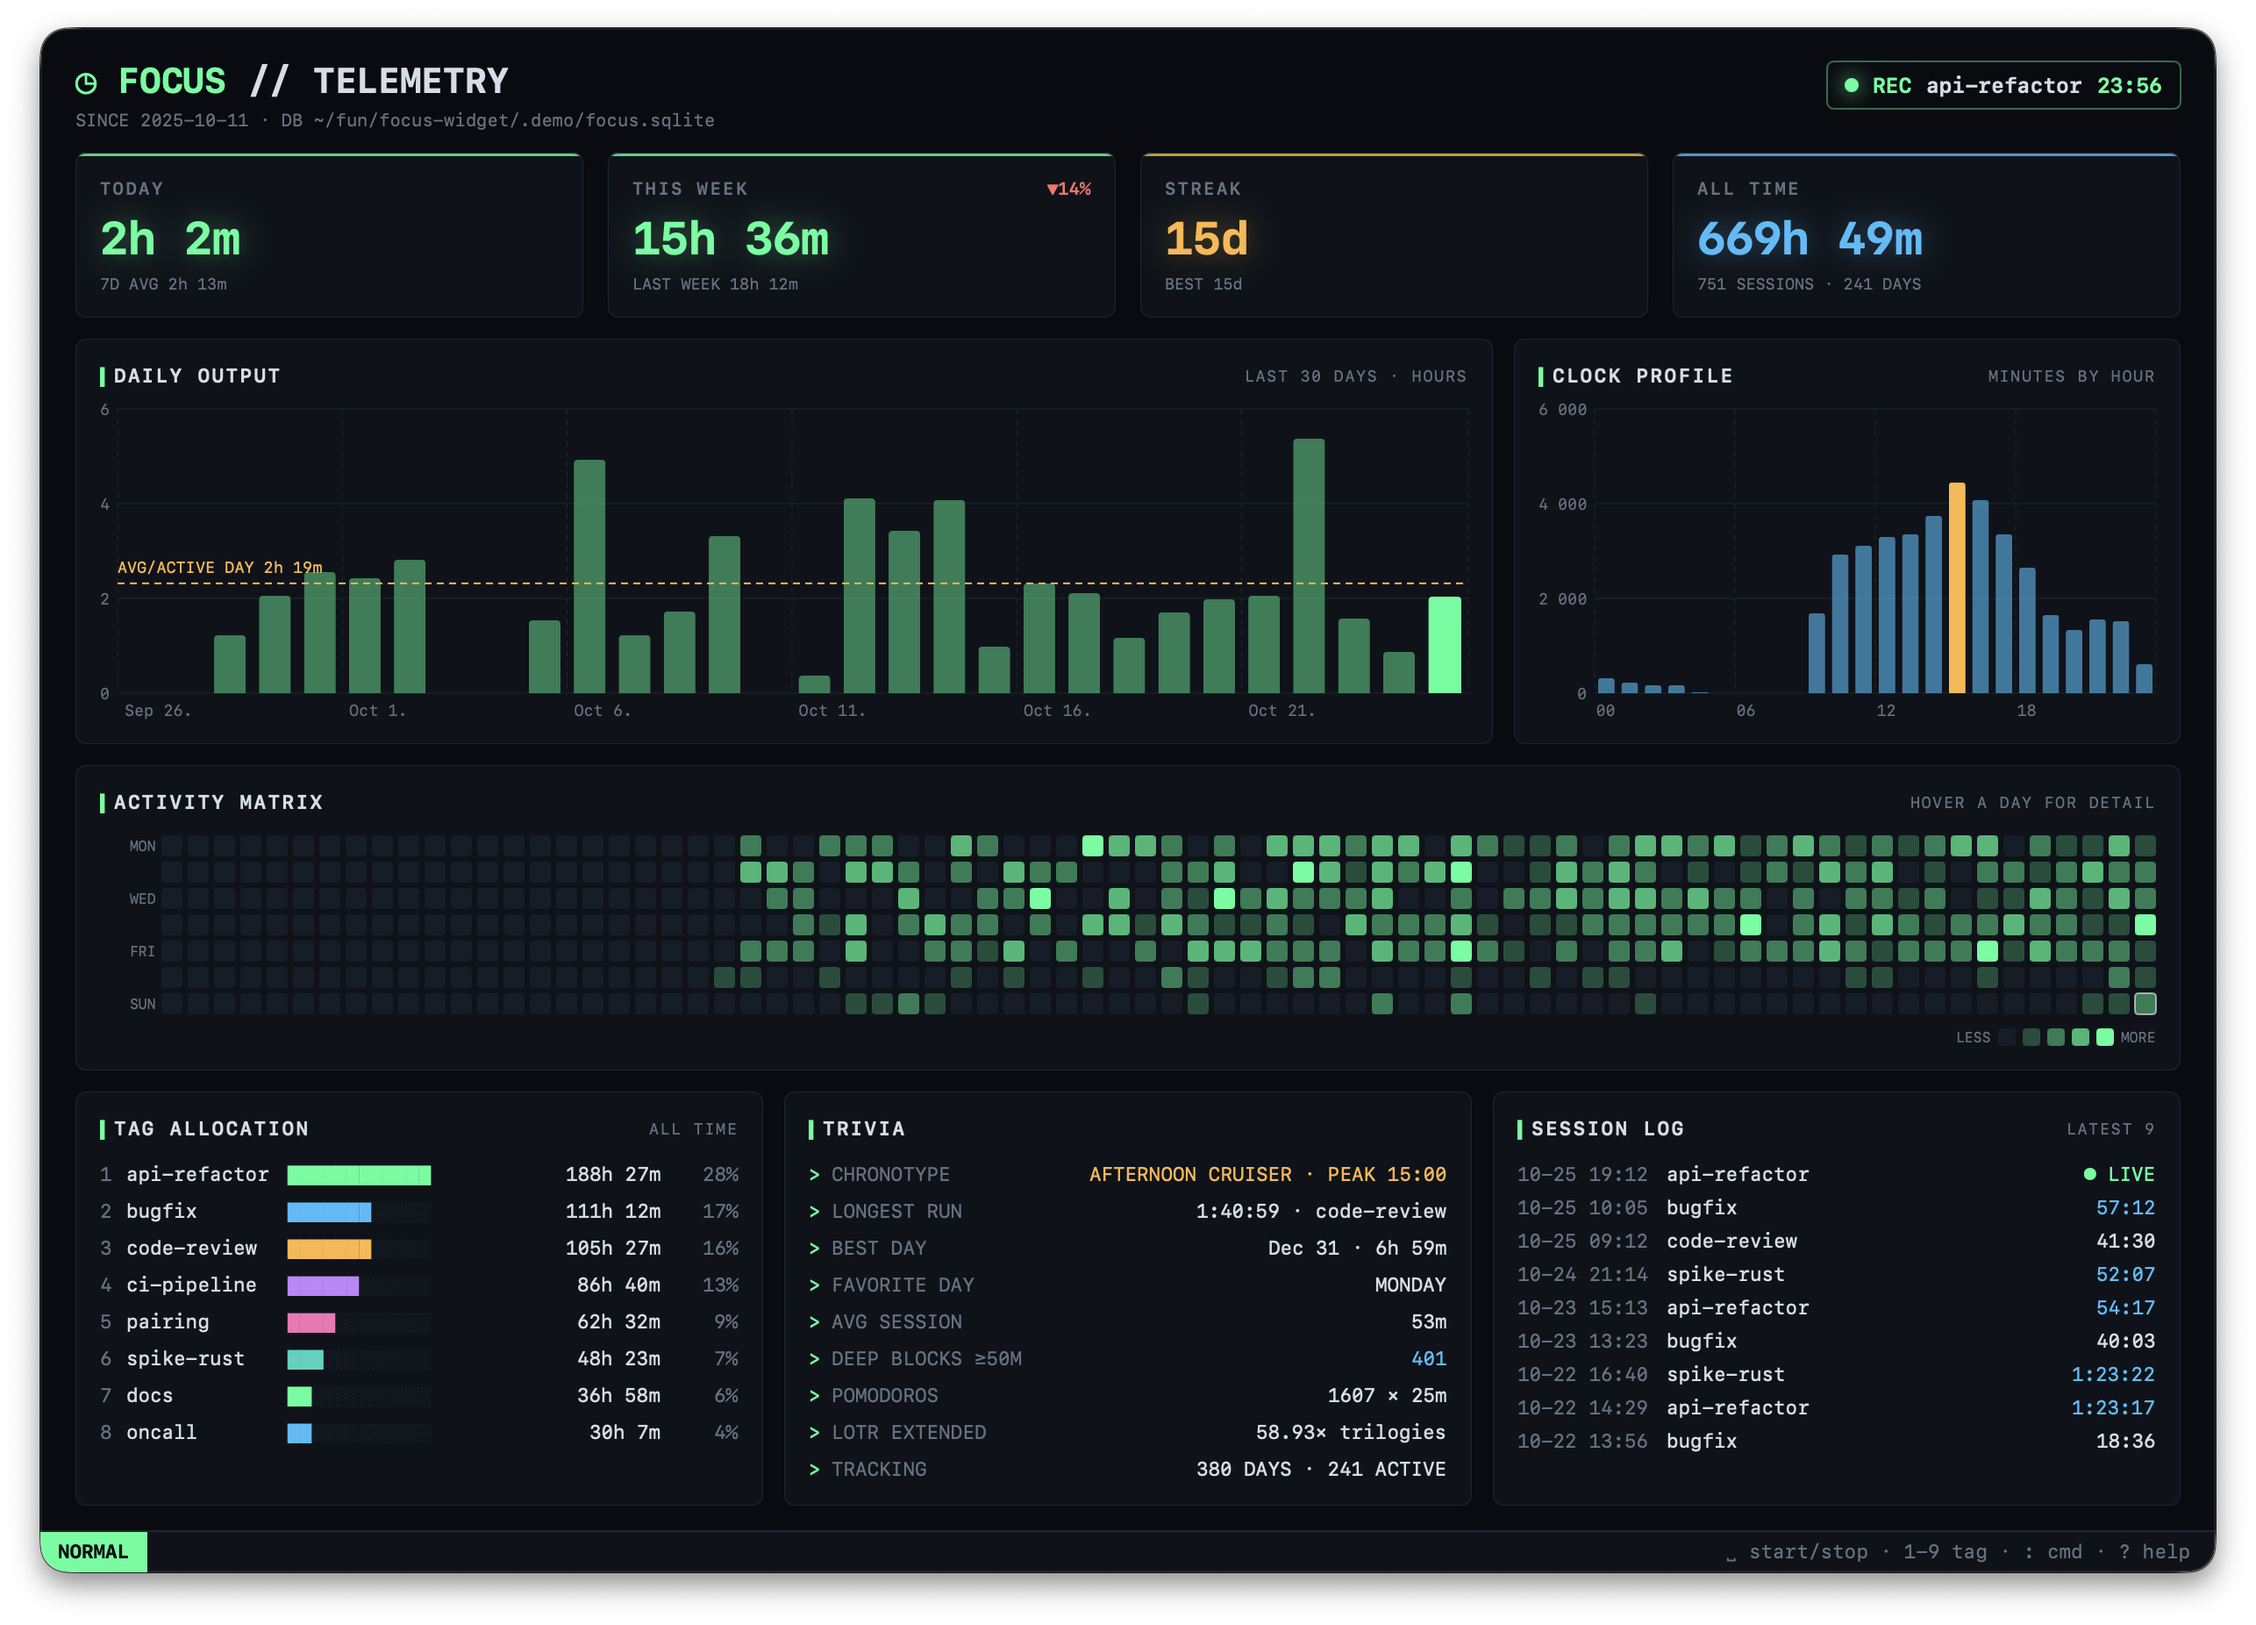
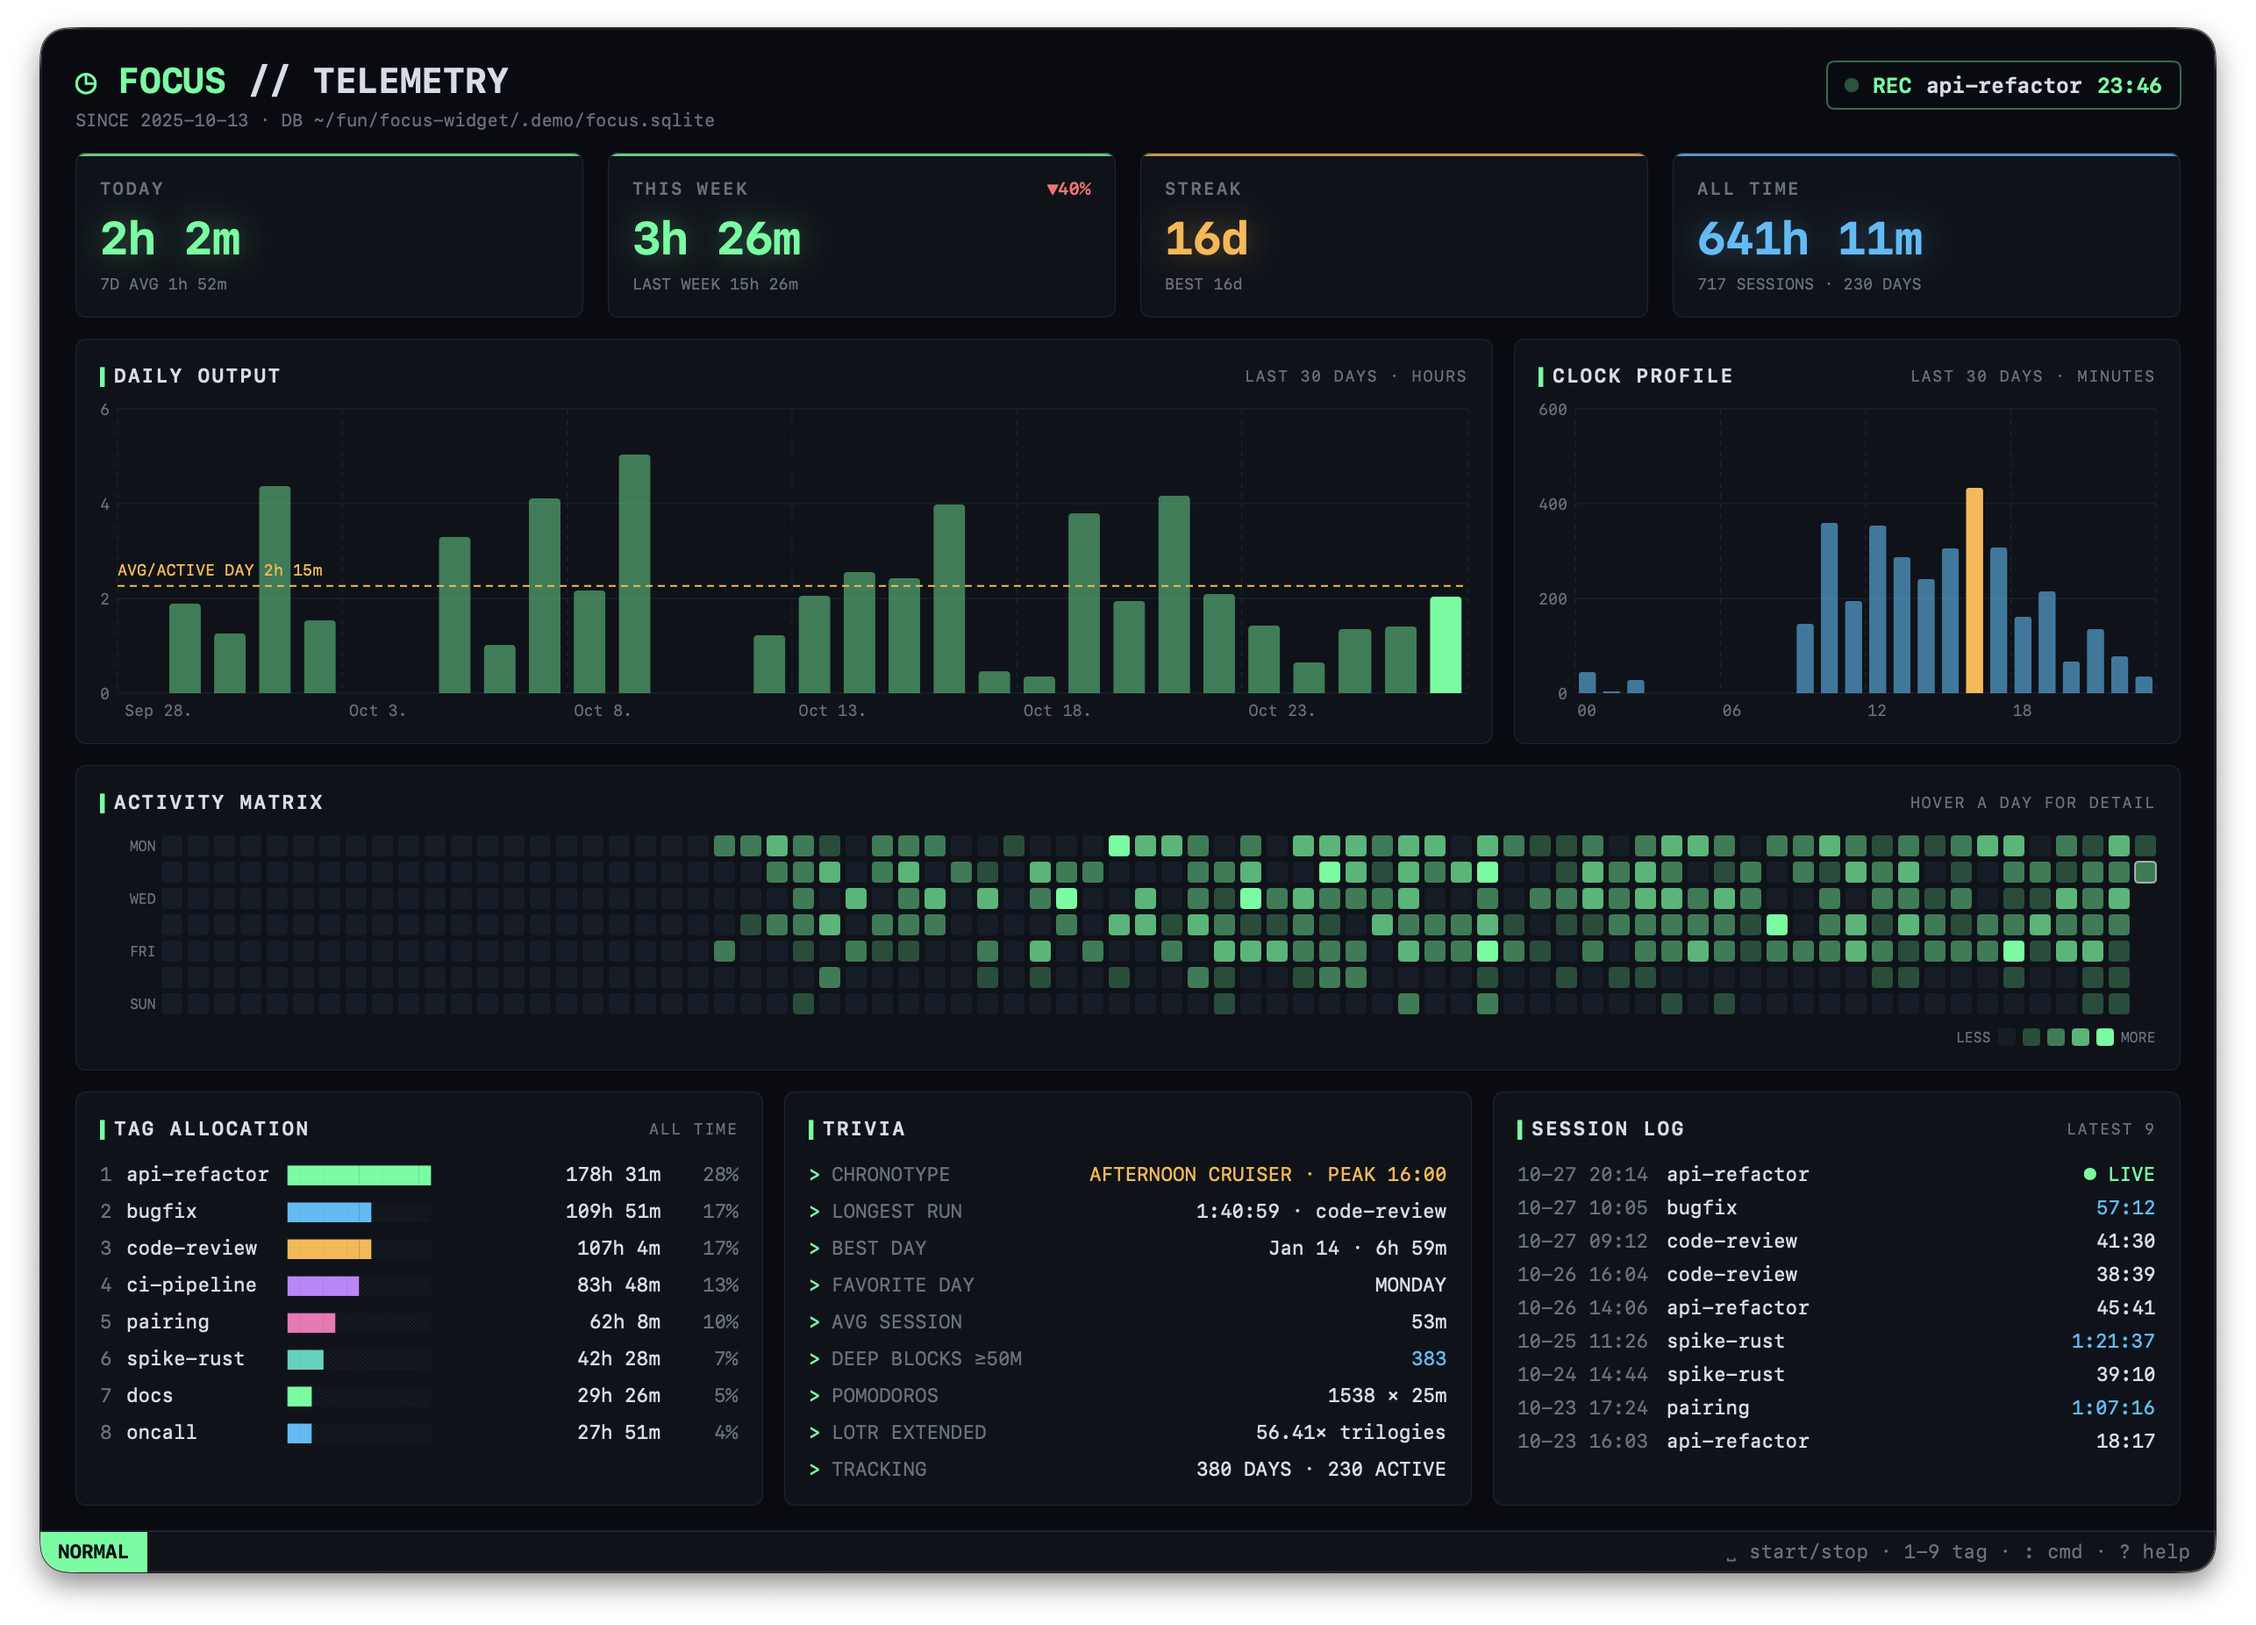
Stats: show the clock profile for the last 30 days
The hour-of-day chart summed all history, so old habits drowned out the
current rhythm. It now covers the same 30-day window as the daily chart
next to it. The chronotype trivia still uses all time.

diff --git a/Sources/FocusCore/Stats.swift b/Sources/FocusCore/Stats.swift
@@ -25,6 +25,8 @@ public struct FocusStats {
     public let secondsByDay: [Date: Int]
     /// Index 0...23 = local hour of day.
     public let secondsByHour: [Int]
+    /// Hour-of-day histogram per day, keyed like `secondsByDay`.
+    public let secondsByDayHour: [Date: [Int]]
     /// Index 0...6 = `Calendar.component(.weekday) - 1`, so 0 is Sunday.
     public let secondsByWeekday: [Int]
     /// Largest first.
@@ -40,6 +42,7 @@ public struct FocusStats {
         var total = 0
         var byDay: [Date: Int] = [:]
         var byHour = [Int](repeating: 0, count: 24)
+        var byDayHour: [Date: [Int]] = [:]
         var byWeekday = [Int](repeating: 0, count: 7)
         var byTag: [String: Int] = [:]
         var longest: Session?
@@ -64,8 +67,10 @@ public struct FocusStats {
             while t < end {
                 let next = min(end, calendar.dateInterval(of: .hour, for: t)?.end ?? end)
                 let slice = Int(next.timeIntervalSince(t))
-                byDay[calendar.startOfDay(for: t), default: 0] += slice
-                byHour[calendar.component(.hour, from: t)] += slice
+                let day = calendar.startOfDay(for: t), hour = calendar.component(.hour, from: t)
+                byDay[day, default: 0] += slice
+                byHour[hour] += slice
+                byDayHour[day, default: [Int](repeating: 0, count: 24)][hour] += slice
                 byWeekday[calendar.component(.weekday, from: t) - 1] += slice
                 t = next
             }
@@ -75,6 +80,7 @@ public struct FocusStats {
         totalSeconds = total
         secondsByDay = byDay.filter { $0.value > 0 }
         secondsByHour = byHour
+        secondsByDayHour = byDayHour
         secondsByWeekday = byWeekday
         tags = byTag.map { TagTotal(tag: $0.key, seconds: $0.value) }
             .sorted { $0.seconds != $1.seconds ? $0.seconds > $1.seconds : $0.tag < $1.tag }
@@ -104,6 +110,16 @@ public struct FocusStats {
             let day = self.day(byAdding: -back, to: today)
             return DayTotal(day: day, seconds: secondsByDay[day] ?? 0)
         }
+    }
+
+    /// Hour-of-day histogram over the last `count` days, ending today.
+    public func secondsByHour(last count: Int) -> [Int] {
+        let from = day(byAdding: -(count - 1), to: today)
+        var hours = [Int](repeating: 0, count: 24)
+        for (day, byHour) in secondsByDayHour where day >= from && day <= today {
+            for hour in 0..<24 { hours[hour] += byHour[hour] }
+        }
+        return hours
     }
 
     /// Consecutive days with focus, ending today, or ending yesterday if nothing has been logged today yet.

diff --git a/Sources/FocusWidget/StatsWindow.swift b/Sources/FocusWidget/StatsWindow.swift
@@ -324,7 +324,7 @@ private struct StatsView: View {
                 Panel("DAILY OUTPUT", trailing: "LAST 30 DAYS · HOURS") { DailyChart(stats: stats) }
                     .frame(maxWidth: .infinity)
                     .layoutPriority(1)
-                Panel("CLOCK PROFILE", trailing: "MINUTES BY HOUR") { HourChart(stats: stats) }
+                Panel("CLOCK PROFILE", trailing: "LAST 30 DAYS · MINUTES") { HourChart(stats: stats) }
                     .frame(width: 380)
             }
             .frame(maxHeight: .infinity)
@@ -547,12 +547,13 @@ private struct HourChart: View {
     let stats: FocusStats
 
     var body: some View {
-        let peak = stats.peakHour
+        let hours = stats.secondsByHour(last: 30)
+        let peak = hours.contains { $0 > 0 } ? hours.indices.max { hours[$0] < hours[$1] } : nil
         Chart {
             ForEach(0..<24, id: \.self) { hour in
                 BarMark(
                     x: .value("Hour", String(format: "%02d", hour)),
-                    y: .value("Minutes", Double(stats.secondsByHour[hour]) / 60)
+                    y: .value("Minutes", Double(hours[hour]) / 60)
                 )
                 .foregroundStyle(hour == peak ? Theme.amber : Theme.cyan.opacity(0.6))
                 .cornerRadius(1.5)

diff --git a/Sources/FocusCheck/main.swift b/Sources/FocusCheck/main.swift
@@ -109,6 +109,9 @@ withStore("stats") { store, _ in
     check(stats.peakHour == 9 && stats.peakWeekday == 1, "peak hour and weekday")
     check(stats.deepSessionCount == 3 && stats.longestSession?.tag == "coding", "deep work and longest")
     check(stats.averageSessionSeconds == 2775, "average session")
+    check(stats.secondsByHour(last: 3)[14] == 3300 && stats.secondsByHour(last: 3)[0] == 1800
+          && stats.secondsByHour(last: 3)[9] == 0 && stats.secondsByHour(last: 3)[23] == 0,
+          "hour histogram over recent days")
     check(stats.dailyTotals(last: 4).map(\.seconds) == [5400, 5100, 0, 600], "daily totals include empty days")
     check(stats.seconds(from: at(day: 1, 0), to: at(day: 3, 0)) == 5100, "seconds in range")
 
